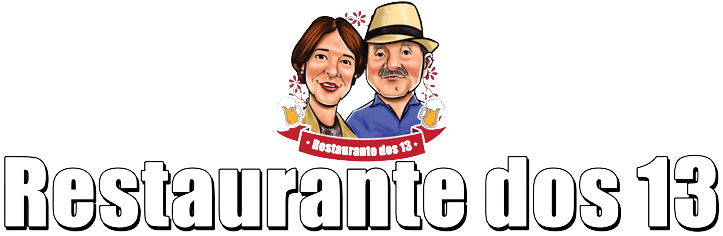
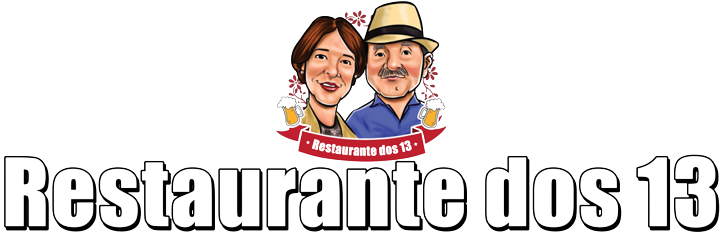
change index css

diff --git a/src/app/components/cardapio/cardapio.component.css b/src/app/components/cardapio/cardapio.component.css
@@ -1,63 +1,53 @@
-.container {
-  display: flex;
-  flex-direction: column;
-  align-items: center;
-  width: 100%;
+body, html {
+  height: 100%;
+  margin: 0;
+  padding: 0;
 }
 
-.row {
+body {
+  background-color: #252525;
   display: flex;
   justify-content: center;
+  align-items: center;
+}
+
+.container {
+  display: grid;
+  margin: 3rem 0 3rem 0;
+  grid-template-columns: repeat(3, 1fr);
+  grid-gap: 20px;
+  max-width: 1200px;
   width: 100%;
-  flex-grow: 1; /* Faz a div ocupar todo o espaço horizontal */
+  height: 100%;
+  padding: 20px;
+  box-sizing: border-box;
 }
 
 .card {
-  width: calc(33.33% - 20px); /* Ajusta a largura para ocupar um terço do espaço e considera a margem */
-  margin: 10px;
-  text-align: center;
-  border-radius: 5px;
-  background-color: transparent; /* Define o fundo como transparente */
-  border: none; /* Remove a borda */
-  object-fit: cover; /* Redimensionar e cortar a imagem para caber no espaço do card */
+  background-color: #383838;
+  border-radius: 10px;
+  overflow: hidden;
+  box-shadow: 0 0 10px rgba(0, 0, 0, 0.2);
+  height: 100%;
+  display: flex;
+  align-items: center;
+  justify-content: center;
 }
-
 
 .card img {
   width: 100%;
-  height: auto;
-  border-radius: 15px;
-  box-shadow: 0px 4px 6px rgba(0, 0, 0, 0.5);
-  object-fit: cover; /* Redimensionar e cortar a imagem para caber no espaço do card */
+  height: 100%;
+  object-fit: cover;
+  filter: brightness(70%);
+  transition: filter 0.3s ease-in-out;
 }
 
-.card h3 {
-  margin-top: 10px;
-  background-color: white;
-  border-radius: 15px;
-  padding: 0.5rem 1rem;
-  box-shadow: 0px 4px 6px rgba(0, 0, 0, 0.5);
+.card img:hover {
+  filter: brightness(100%);
 }
 
-.imagem-maior {
-  position: absolute; /* Define a posição fixa */
-  top: 50%; /* Define a posição vertical */
-  left: 50%; /* Define a posição horizontal */
-  transform: translate(-50%, -50%); /* Centraliza a imagem */
-  z-index: 1; /* Define um valor alto para ficar acima dos demais elementos */
-  border-radius: 15px;
-  border: 2px solid black;
-  width: 20%;
-  height: auto;
-}
-
-@media (max-width: 510px) {
-  h3{
-    font-size: .8rem;
+@media screen and (max-width: 768px) {
+  .container {
+    grid-template-columns: repeat(2, 1fr);
   }
-  .imagem-maior{
-    width: 85%;
-  }
-
 }
-  

diff --git a/src/app/components/cardapio/cardapio.component.html b/src/app/components/cardapio/cardapio.component.html
@@ -1,35 +1,28 @@
-<div class="container">
-  <div class="row" >
-    <div class="card" (click)="abrirImagemMaior('./assets/imagens/segunda.png')">
-      <img src="./assets/imagens/segunda.png" alt="Imagem 1">
-      <h3>Segunda</h3>
+<main>
+  <body>
+    <div class="container">
+      <div class="card">
+        <img src="assets/imagens/segunda.png"  alt="Image 1">
     </div>
-    <div class="card" (click)="abrirImagemMaior('./assets/imagens/terça.png')">
-      <img src="./assets/imagens/terça.png" alt="Imagem 2">
-      <h3>Terça</h3>
+    <div class="card">
+      <img src="assets/imagens/terça.png"  alt="Image 2">
     </div>
-    <div class="card" (click)="abrirImagemMaior('./assets/imagens/quarta.png')">
-      <img src="./assets/imagens/quarta.png" alt="Imagem 3">
-      <h3>Quarta</h3>
+    <div class="card">
+      <img src="assets/imagens/quarta.png"  alt="Image 3">
     </div>
-  </div>
-  <div class="container">
-  <div class="row">
-    <div class="card" (click)="abrirImagemMaior('./assets/imagens/quinta.png')">
-      <img src="./assets/imagens/quinta.png" alt="Imagem 4">
-      <h3>Quinta</h3>
+    <div class="card">
+      <img src="assets/imagens/quinta.png"  alt="Image 4">
     </div>
-    <div class="card" (click)="abrirImagemMaior('./assets/imagens/sexta.png')">
-      <img src="./assets/imagens/sexta.png" alt="Imagem 5">
-      <h3>Sexta</h3>
+    <div class="card">
+      <img src="assets/imagens/sexta.png" alt="Image 5">
     </div>
-    <div class="card" (click)="abrirImagemMaior('./assets/imagens/sabado.png')">
-      <img src="./assets/imagens/sabado.png" alt="Imagem 6">
-      <h3>Sábado</h3>
+    <div class="card">
+      <img src="assets/imagens/sabado.png"  alt="Image 6">
     </div>
   </div>
-</div>
-</div>
+</body>
+</main>
+
 
 <!-- Exibir imagem em tamanho maior -->
 <div *ngIf="imagemSelecionada">

diff --git a/src/app/components/cabecalho/cabecalho.component.html b/src/app/components/cabecalho/cabecalho.component.html
@@ -17,7 +17,7 @@
     <div class="row">
       <div class="col">
         <div class="img-container">
-          <img class="caricatura" src="/assets/imagens/caricatura1-removebg-preview.png" alt="Caricatura">
+          <img class="caricatura" src="/assets/imagens/logorest.png" alt="Caricatura">
         </div>
       </div>
       <div class="col">

diff --git a/src/app/components/new-index/new-index.component.css b/src/app/components/new-index/new-index.component.css
@@ -410,4 +410,21 @@ pre code {
 			width: 140%;
 		}
 	}
+
+	@media (max-width: 765px) {
+		.img-menu{
+			width: 100%;
+		}
+		p{
+			font-size: 12px;
+		}
+		h2{
+			font-size: 20px;
+		}
+		.linha1{
+			margin-top: 0;
+		}	
+	}
+	
+
 	

diff --git a/src/app/components/cabecalho/cabecalho.component.css b/src/app/components/cabecalho/cabecalho.component.css
@@ -8,7 +8,7 @@
 }
   .caricatura {
     max-width: 70vw; 
-    width: 55%;
+    width: 20%;
   }
 
   .img-container {
